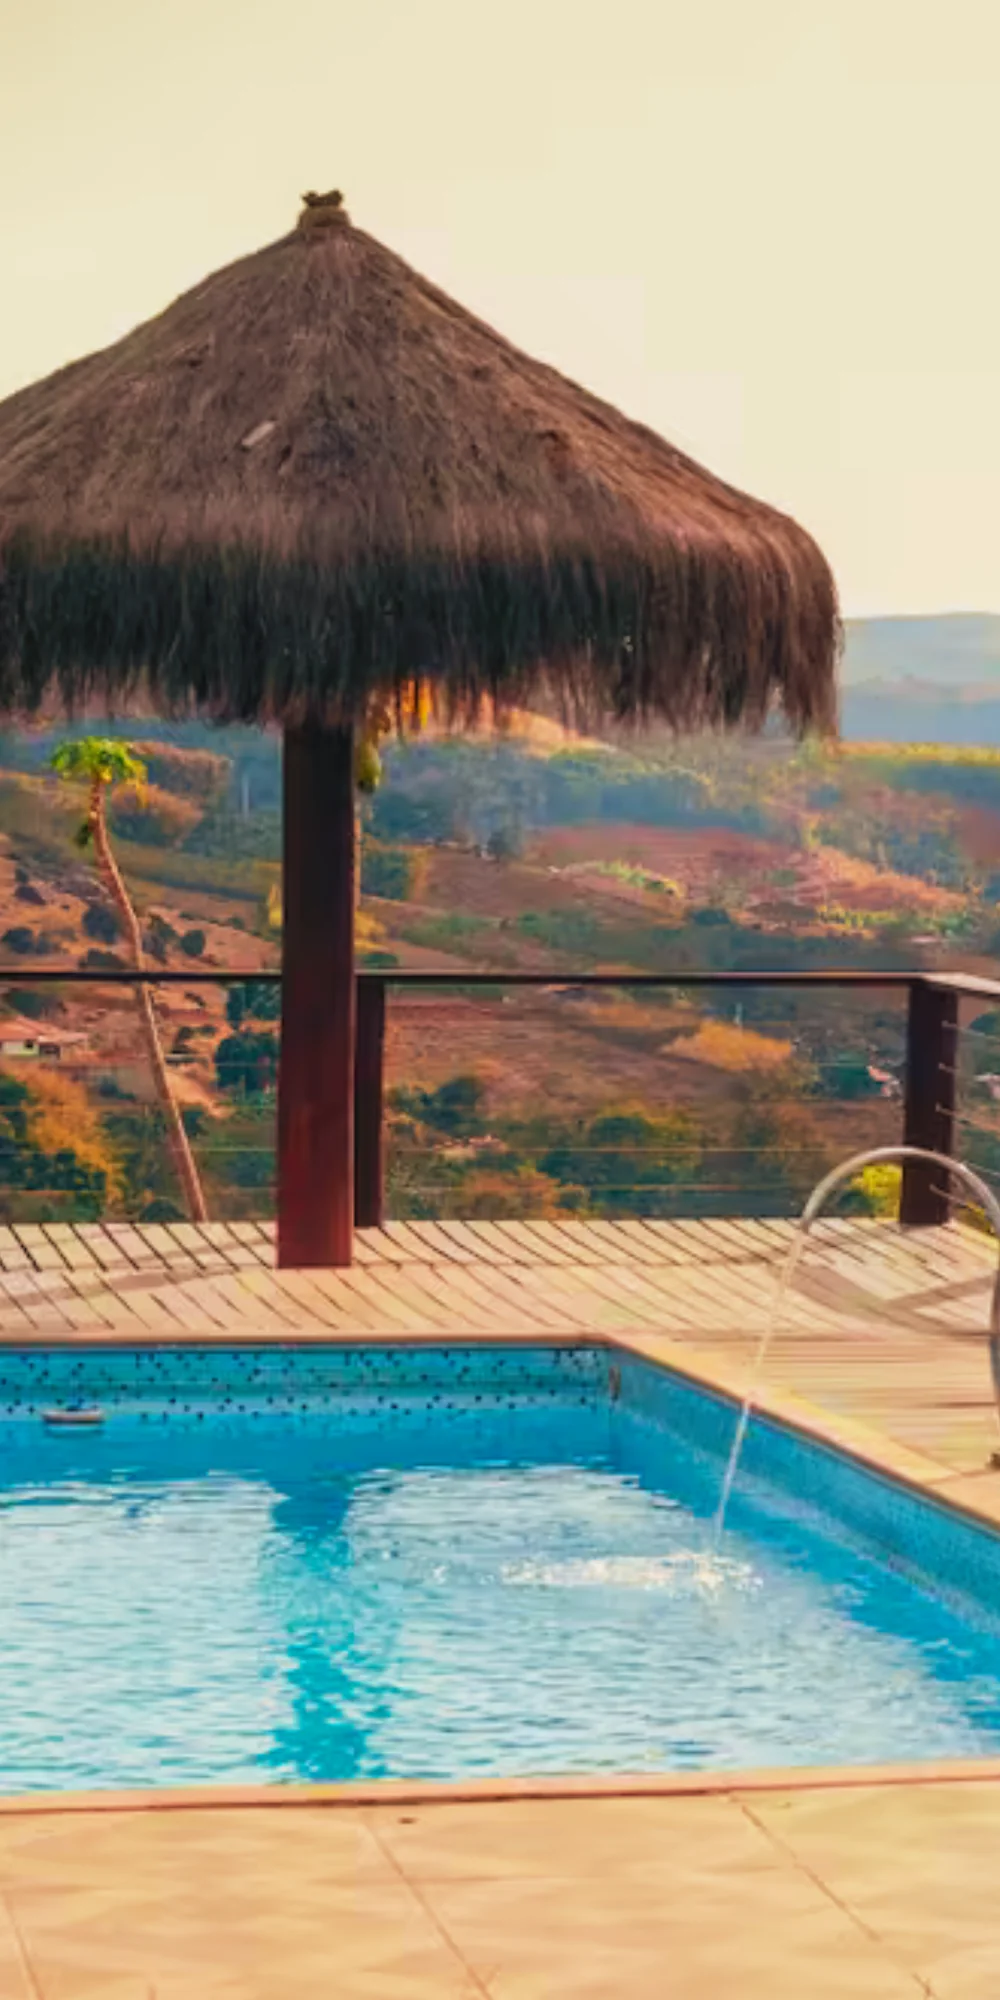
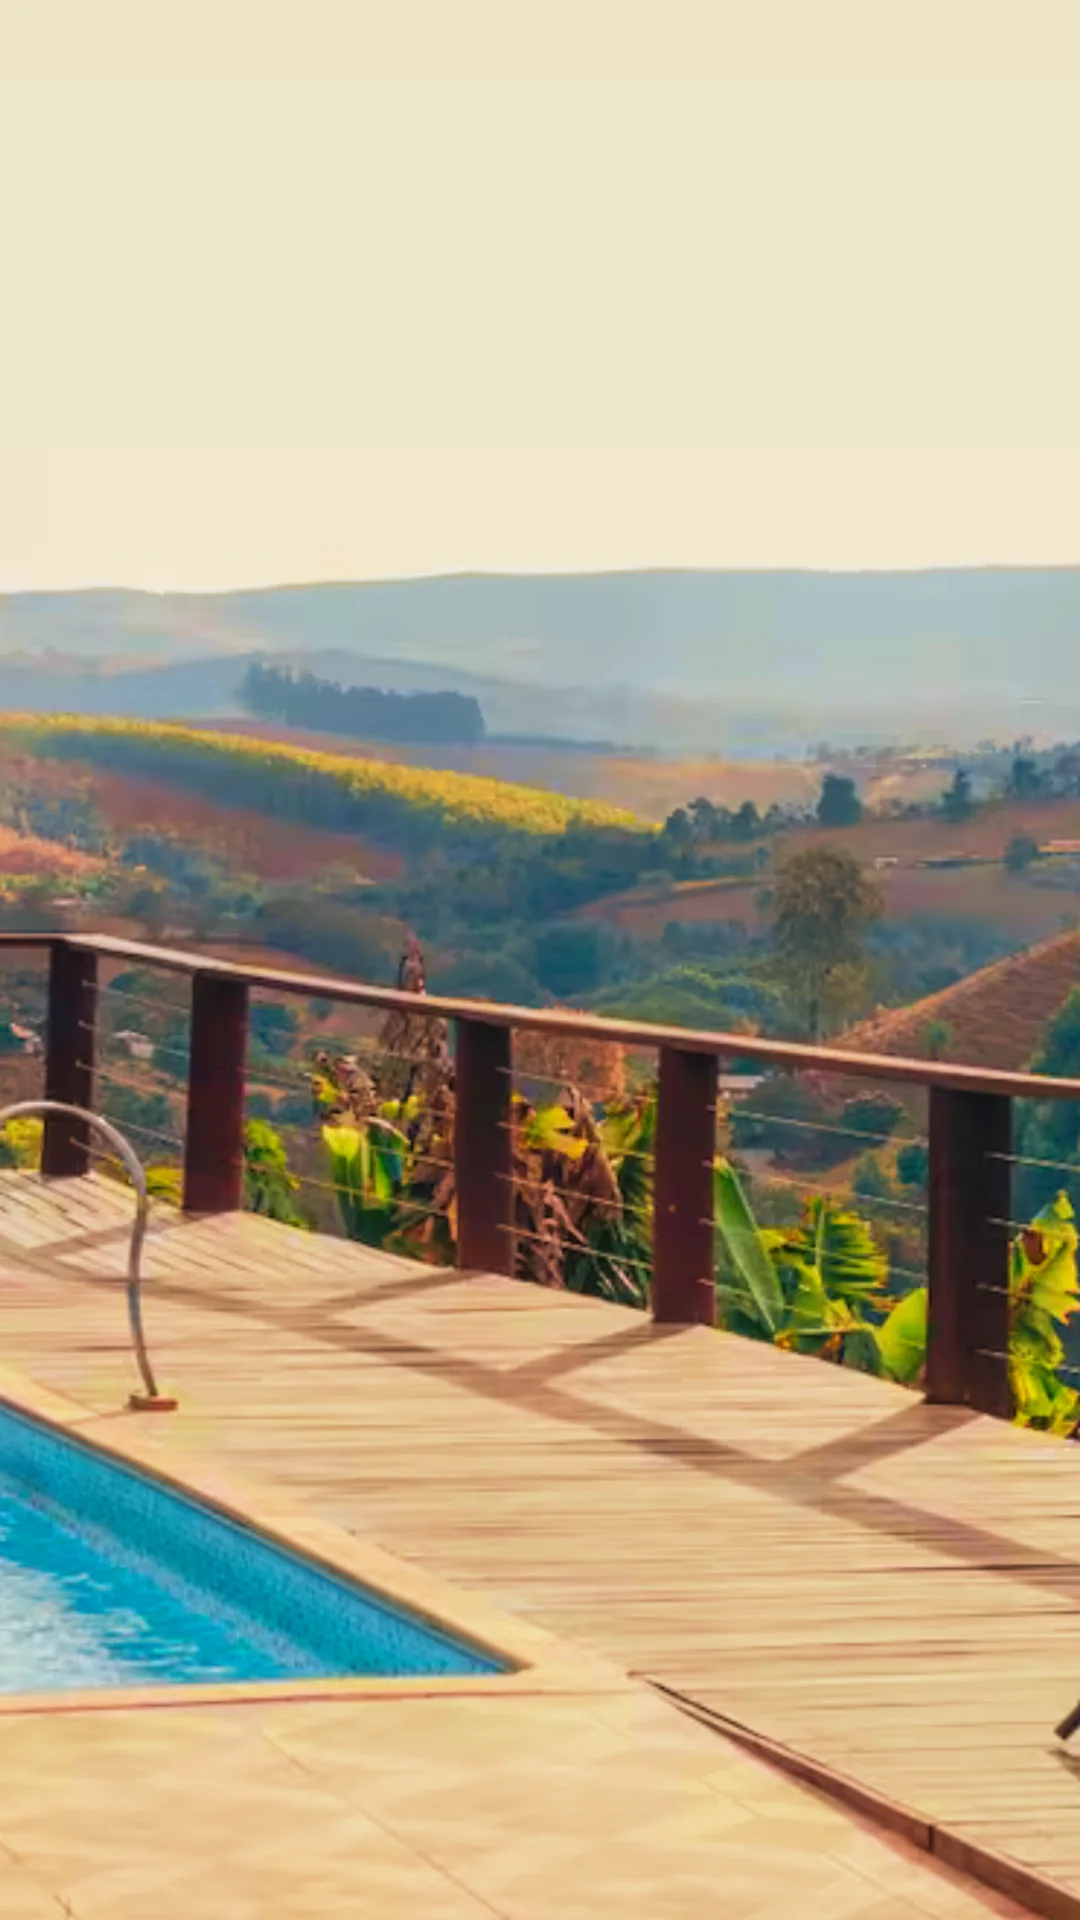
Hero vertical propria para celular e correcao do cache dos assets
Os assets estavam com max-age de um ano e immutable, mas os nomes dos
arquivos sao fixos: trocar hero.webp nunca chegava em quem ja tinha
visitado o site. Passa a revalidar, respondendo 304 quando nada mudou.

diff --git a/index.html b/index.html
@@ -43,7 +43,7 @@
     <picture>
       <!-- No celular a tela e vertical: a foto larga viraria uma fatia estreita.
            Esta versao ja vem recortada em pe, enquadrando ombrelone e piscina. -->
-      <source media="(max-width:760px)" srcset="assets/fotos/hero-mobile.webp" width="1000" height="2000">
+      <source media="(max-width:760px)" srcset="assets/fotos/hero-mobile.webp" width="1080" height="1920">
       <img src="assets/fotos/hero.webp" alt="Piscina com deck de madeira e vista panorâmica para as montanhas de Socorro" width="1920" height="880" fetchpriority="high">
     </picture>
   </div>
